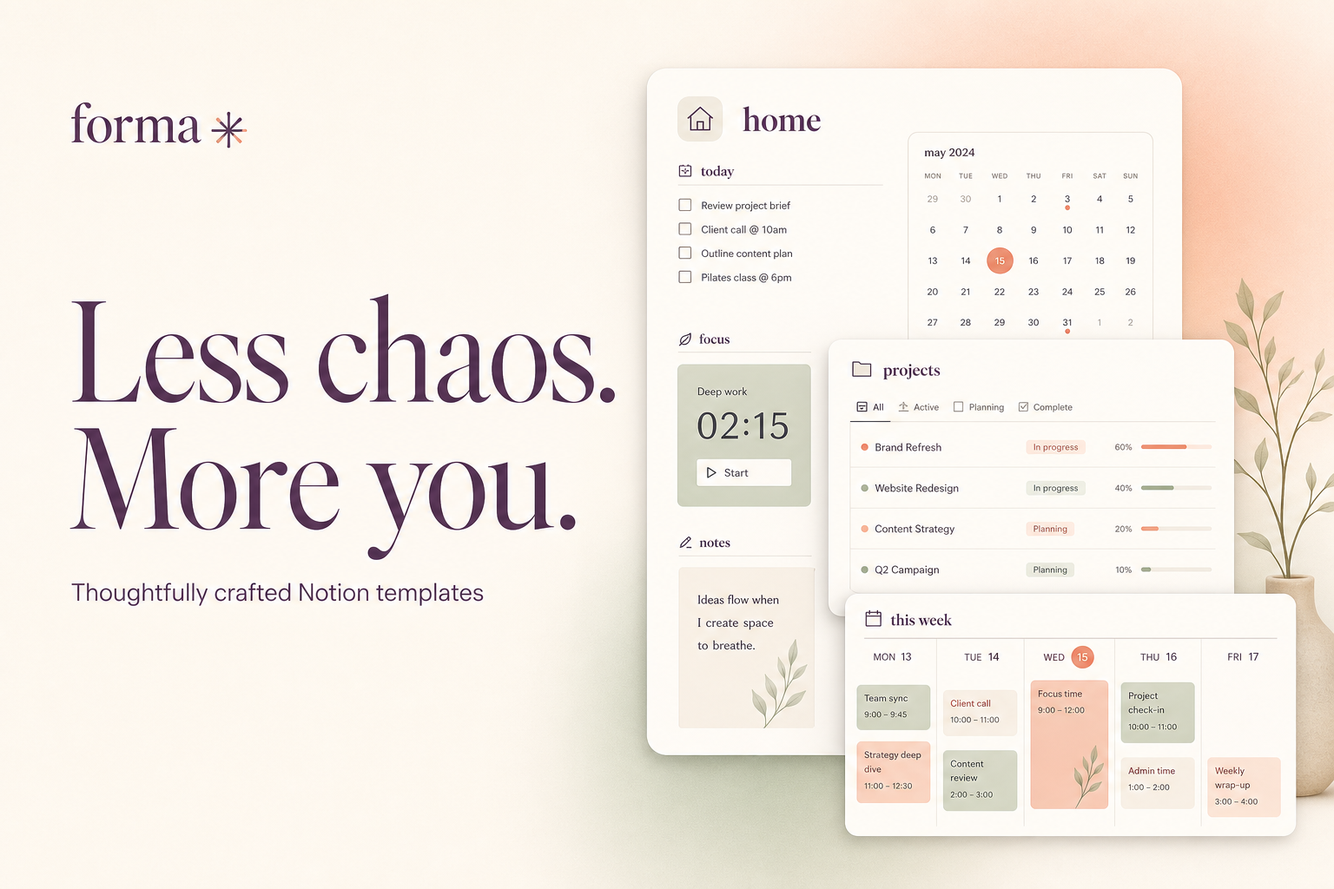
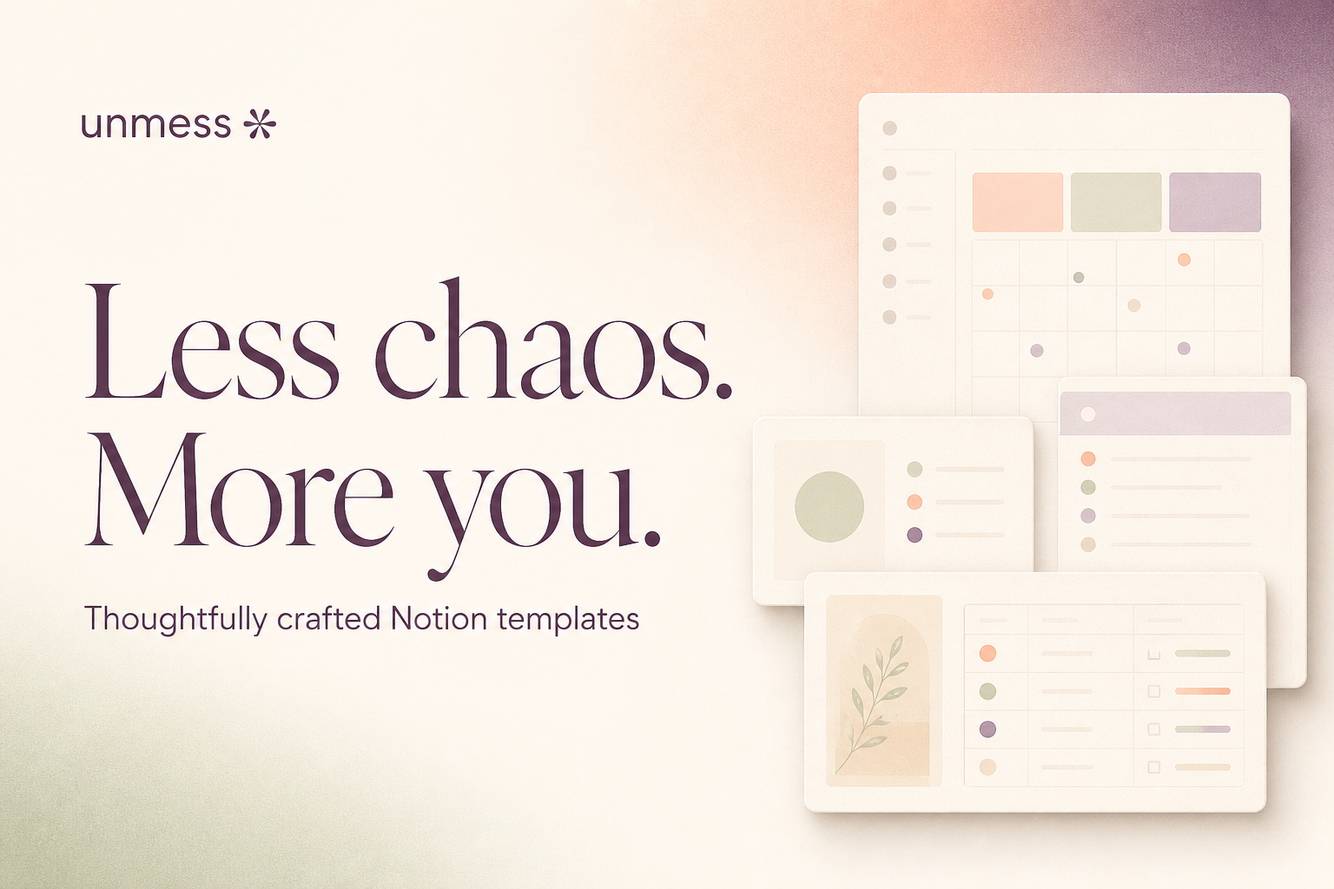
Rebrand Forma to Unmess

diff --git a/app/storefront.tsx b/app/storefront.tsx
@@ -6,9 +6,9 @@ import {ScrollTrigger} from 'gsap/ScrollTrigger';
 import Lenis from 'lenis';
 import {ArrowUpRight,ArrowRight,ShoppingBag,Check,Plus,Minus,Zap,Heart,Layers,Headphones,Menu,X,Trash2,Mail,Camera as Instagram} from 'lucide-react';
 import {Dialog,DialogContent,DialogTitle,DialogDescription} from '@/components/ui/dialog';
-import './forma.css';
+import './unmess.css';
 import './interactions.css';
-export function Workspace({small=false,title='Your life, beautifully together.'}:{small?:boolean,title?:string}){return <div className={`workspace ${small?'small':''}`}><div className="windowbar"><span>◧ &nbsp; forma / life planner</span><span>•••</span></div><div className="cover"><span>MAKE ROOM FOR WHAT MATTERS</span></div><div className="workspace-body"><span className="ws-icon">✳</span><h3>{title}</h3><p>A little intention goes a long way. Welcome to your space.</p><div className="ws-tabs">⌂ &nbsp; My dashboard <span>↗ &nbsp; Quick links</span></div><div className="ws-grid"><div><b>Today, with intention</b>{['A slow start & a good coffee','Move one idea forward','Make something just for you'].map(t=><div className="ws-task" key={t}><i/> {t}</div>)}<div className="ws-note">One thing at a time.<br/><em>You’re doing enough.</em></div></div><div><b>Your little corner</b><div className="ws-photo"/><div className="ws-links">↗ Weekly reset<br/>↗ Goals & dreams<br/>↗ The good stuff</div></div></div></div></div>}
+export function Workspace({small=false,title='Your life, beautifully together.'}:{small?:boolean,title?:string}){return <div className={`workspace ${small?'small':''}`}><div className="windowbar"><span>◧ &nbsp; unmess / life planner</span><span>•••</span></div><div className="cover"><span>MAKE ROOM FOR WHAT MATTERS</span></div><div className="workspace-body"><span className="ws-icon">✳</span><h3>{title}</h3><p>A little intention goes a long way. Welcome to your space.</p><div className="ws-tabs">⌂ &nbsp; My dashboard <span>↗ &nbsp; Quick links</span></div><div className="ws-grid"><div><b>Today, with intention</b>{['A slow start & a good coffee','Move one idea forward','Make something just for you'].map(t=><div className="ws-task" key={t}><i/> {t}</div>)}<div className="ws-note">One thing at a time.<br/><em>You’re doing enough.</em></div></div><div><b>Your little corner</b><div className="ws-photo"/><div className="ws-links">↗ Weekly reset<br/>↗ Goals & dreams<br/>↗ The good stuff</div></div></div></div></div>}
 const products=[
 {id:1,slug:'life-planner',title:'The Life Planner',category:'Life & wellness',price:500,color:'sage',badge:'Bestseller',description:'A calmer home for your goals, habits, and everything in between.',features:['Daily & weekly planning','Habit and mood trackers','Goals, journal & life dashboard']},
 {id:2,slug:'creator-studio',title:'The Creator Studio',category:'Work & business',price:500,color:'peach',badge:'Creator favorite',description:'Big ideas deserve a beautiful place to become real.',features:['Content calendar & idea bank','Brand and campaign planning','Client projects & deliverables']},
@@ -17,13 +17,13 @@ const products=[
 {id:5,slug:'gentle-reset',title:'The Gentle Reset',category:'Life & wellness',price:500,color:'peach',badge:'Start here',description:'Small rituals that make your everyday feel a little more like you.',features:['Weekly reset ritual','Gratitude journal','Mindful routine builder']},
 {id:6,slug:'freelance-hq',title:'The Freelance HQ',category:'Work & business',price:500,color:'sage',badge:'All in one',description:'A home for the business you’re building on your own terms.',features:['Client CRM & project hub','Invoice and income tracker','Proposals & meeting notes']}];
 type Product=typeof products[number];
-const bundle:Product={id:99,slug:'everything-bundle',title:'The Everything Bundle',category:'Bundle',price:500,color:'lavender',badge:'Bundle Deal',description:'All six templates. One beautifully connected life.',features:['All 6 Forma templates','Lifetime template updates','30 days of setup support']};
+const bundle:Product={id:99,slug:'everything-bundle',title:'The Everything Bundle',category:'Bundle',price:500,color:'lavender',badge:'Bundle Deal',description:'All six templates. One beautifully connected life.',features:['All 6 Unmess templates','Lifetime template updates','30 days of setup support']};
 const categories=['All templates','Life & wellness','Work & business','Productivity','Student life'];
 const questions=[
 ['Do I need to know how to use Notion?','Not at all. Every template is designed to feel intuitive, with a quick-start guide and example content. If you can tick a box and type a note, you’re ready.'],
 ['Does this work with the free Notion plan?','Yes. All six templates are designed to work with Notion’s free personal plan. No extra subscription is required to use the included dashboards and databases.'],
 ['How do I receive my templates?','Once connected to a live checkout, purchases will provide a Notion duplication link. Open it, choose Duplicate, and make the template yours. This demo does not process payments or deliver paid products.'],
-['Can I make it my own?','Absolutely. Change colors, rearrange pages, add your own sections, or remove what you don’t need. Think of Forma as your starting point, not a rulebook.'],
+['Can I make it my own?','Absolutely. Change colors, rearrange pages, add your own sections, or remove what you don’t need. Think of Unmess as your starting point, not a rulebook.'],
 ['What if I need a little help?','The proposed offer includes a getting-started guide and 30 days of setup support. Before launching, add your real support address and publish your refund and support policies.']];
 const quotes=[
 ['“Finally, a planner that feels like me. Everything has a home, and my brain can take a breath.”','Jamie R.','Designer & beautifully busy human','JR'],
@@ -44,7 +44,7 @@ const analyticsBase=(process.env.NEXT_PUBLIC_ANALYTICS_API_URL||'').replace(/\/$
 const formatPrice=(amount:number)=>new Intl.NumberFormat(undefined,{style:'currency',currency:pricing.currency,maximumFractionDigits:pricing.currency==='JPY'||pricing.currency==='KRW'?0:2}).format(amount*pricing.rate);
 const trackClick=(product:Product)=>{if(!analyticsBase)return;void fetch(analyticsBase+'/api/clicks/'+product.slug,{method:'POST',keepalive:true}).catch(()=>{});};
 const cursor=useRef<HTMLDivElement>(null), gallery=useRef<HTMLDivElement>(null), gallerySection=useRef<HTMLElement>(null);
-useEffect(()=>{void fetch('/api/pricing').then(r=>r.ok?r.json() as Promise<{currency:string,rate:number,approximate:boolean}>:Promise.reject()).then(data=>{if(data.currency&&Number(data.rate)>0)setPricing(data)}).catch(()=>{});const t=setTimeout(()=>setLoading(false),900);try{const ids=JSON.parse(localStorage.getItem('forma-cart')||'[]');if(Array.isArray(ids))setCart([...products,bundle].filter(p=>ids.includes(p.id)))}catch{}return()=>clearTimeout(t)},[]);
+useEffect(()=>{void fetch('/api/pricing').then(r=>r.ok?r.json() as Promise<{currency:string,rate:number,approximate:boolean}>:Promise.reject()).then(data=>{if(data.currency&&Number(data.rate)>0)setPricing(data)}).catch(()=>{});const t=setTimeout(()=>setLoading(false),900);try{const ids=JSON.parse(localStorage.getItem('unmess-cart')||'[]');if(Array.isArray(ids))setCart([...products,bundle].filter(p=>ids.includes(p.id)))}catch{}return()=>clearTimeout(t)},[]);
 useEffect(()=>{if(!notice)return;const t=setTimeout(()=>setNotice(''),3500);return()=>clearTimeout(t)},[notice]);
 useEffect(()=>{gsap.registerPlugin(ScrollTrigger);const mm=gsap.matchMedia();let lenis:Lenis|undefined;let raf=0;
 if(!matchMedia('(prefers-reduced-motion:reduce)').matches){lenis=new Lenis({duration:1.1,anchors:true});const tick=(time:number)=>{lenis?.raf(time);raf=requestAnimationFrame(tick)};raf=requestAnimationFrame(tick);lenis.on('scroll',ScrollTrigger.update);}
@@ -54,12 +54,12 @@ mm.add('(min-width:1100px) and (prefers-reduced-motion:no-preference)',()=>{cons
 const pointer=(e:MouseEvent)=>{const el=cursor.current;if(!el)return;el.style.left=e.clientX+'px';el.style.top=e.clientY+'px';const target=(e.target as HTMLElement).closest<HTMLElement>('[data-cursor],button,a');el.textContent=target?.dataset.cursor||(target?'↗':'');el.classList.toggle('active',!!target);el.style.opacity='1';};
 window.addEventListener('mousemove',pointer);return()=>{window.removeEventListener('mousemove',pointer);window.removeEventListener('scroll',handleScroll);cancelAnimationFrame(raf);lenis?.destroy();mm.revert()};
 },[]);
-const add=(p:Product)=>{const next=cart.some(x=>x.id===p.id)?cart:[...cart,p];setCart(next);try{localStorage.setItem('forma-cart',JSON.stringify(next.map(x=>x.id)))}catch{}setSelected(null);setCartOpen(true);setNotice('A little possibility, added to your bag.')};
-const remove=(id:number)=>{const next=cart.filter(p=>p.id!==id);setCart(next);try{localStorage.setItem('forma-cart',JSON.stringify(next.map(x=>x.id)))}catch{}};
+const add=(p:Product)=>{const next=cart.some(x=>x.id===p.id)?cart:[...cart,p];setCart(next);try{localStorage.setItem('unmess-cart',JSON.stringify(next.map(x=>x.id)))}catch{}setSelected(null);setCartOpen(true);setNotice('A little possibility, added to your bag.')};
+const remove=(id:number)=>{const next=cart.filter(p=>p.id!==id);setCart(next);try{localStorage.setItem('unmess-cart',JSON.stringify(next.map(x=>x.id)))}catch{}};
 return <main>
-<AnimatePresence>{loading&&<motion.div className="preloader" exit={{opacity:0}} transition={{duration:.25}} aria-hidden="true"><motion.span className="brand" initial={{y:12,opacity:0}} animate={{y:0,opacity:1}}>forma<motion.span animate={{rotate:180}} transition={{duration:1}}>✳</motion.span></motion.span><span>A little space for you.</span></motion.div>}</AnimatePresence>
+<AnimatePresence>{loading&&<motion.div className="preloader" exit={{opacity:0}} transition={{duration:.25}} aria-hidden="true"><motion.span className="brand" initial={{y:12,opacity:0}} animate={{y:0,opacity:1}}>unmess<motion.span animate={{rotate:180}} transition={{duration:1}}>✳</motion.span></motion.span><span>A little space for you.</span></motion.div>}</AnimatePresence>
 <div ref={cursor} className="custom-cursor" aria-hidden="true"/>
-<header className={scrolled?'nav-shell scrolled':'nav-shell'}><nav><a className="brand" href="#" aria-label="Forma home">forma<span>✳</span></a><div className="navlinks"><a href="#templates">The templates</a><a href="#why">Our philosophy</a><a href="#reviews">Kind words</a></div><div className="nav-actions"><button className="bag" onClick={()=>setCartOpen(true)} aria-label={`Open shopping bag, ${cart.length} items`}><ShoppingBag size={18}/>{cart.length>0&&<span>{cart.length}</span>}</button><Magnetic href="#templates" className="navcta">Find your flow <ArrowUpRight size={16}/></Magnetic><button className="menu-toggle" aria-label="Toggle menu" aria-expanded={menu} onClick={()=>setMenu(!menu)}>{menu?<X/>:<Menu/>}</button></div></nav>{menu&&<div className="mobile-menu">{[['The templates','#templates'],['Our philosophy','#why'],['Kind words','#reviews'],['The bundle','#bundle']].map(([label,href])=><a key={href} href={href} onClick={()=>setMenu(false)}>{label}<ArrowUpRight size={16}/></a>)}</div>}</header>
+<header className={scrolled?'nav-shell scrolled':'nav-shell'}><nav><a className="brand" href="#" aria-label="Unmess home">unmess<span>✳</span></a><div className="navlinks"><a href="#templates">The templates</a><a href="#why">Our philosophy</a><a href="#reviews">Kind words</a></div><div className="nav-actions"><button className="bag" onClick={()=>setCartOpen(true)} aria-label={`Open shopping bag, ${cart.length} items`}><ShoppingBag size={18}/>{cart.length>0&&<span>{cart.length}</span>}</button><Magnetic href="#templates" className="navcta">Find your flow <ArrowUpRight size={16}/></Magnetic><button className="menu-toggle" aria-label="Toggle menu" aria-expanded={menu} onClick={()=>setMenu(!menu)}>{menu?<X/>:<Menu/>}</button></div></nav>{menu&&<div className="mobile-menu">{[['The templates','#templates'],['Our philosophy','#why'],['Kind words','#reviews'],['The bundle','#bundle']].map(([label,href])=><a key={href} href={href} onClick={()=>setMenu(false)}>{label}<ArrowUpRight size={16}/></a>)}</div>}</header>
 <section className="hero"><div className="hero-copy"><div className="eyebrow"><span/> A LITTLE STRUCTURE. A LOT OF POSSIBILITY.</div><h1 aria-label="Less chaos. More you.">{['Less','chaos.'].map((word,i)=><span className="word-mask" key={word}><motion.span initial={{y:reduced?0:120}} animate={{y:0}} transition={{delay:.8+i*.1,duration:.75,ease:[.22,1,.36,1]}}>{word}&nbsp;</motion.span></span>)}<br/>{['More','you.'].map((word,i)=><span className="word-mask" key={word}><motion.span initial={{y:reduced?0:120}} animate={{y:0}} transition={{delay:1+i*.1,duration:.75,ease:[.22,1,.36,1]}}>{i?<em>{word}</em>:word}&nbsp;</motion.span></span>)}<span className="headline-star">✳</span></h1><p>Thoughtfully crafted Notion templates to clear your mind,<br className="desktop"/> find your rhythm, and make room for what matters.</p><Magnetic href="#templates">Explore the templates <ArrowUpRight size={18}/></Magnetic><div className="hero-proof"><div className="avatars"><span>J</span><span>A</span><span>M</span><span>S</span></div><div><span className="stars">★★★★★</span><small>For beautifully busy minds, like yours.</small></div></div></div>
 <div className="hero-art" onMouseMove={e=>{if(!reduced&&matchMedia('(pointer:fine)').matches){const r=e.currentTarget.getBoundingClientRect();gsap.to('.hero-workspace',{x:(e.clientX-r.left-r.width/2)*.025,y:(e.clientY-r.top-r.height/2)*.025,duration:.8});}}} onMouseLeave={()=>gsap.to('.hero-workspace',{x:0,y:0,duration:.8})}><div className="mesh"/><div className="hero-workspace"><Workspace/></div><div className="floating-note"><span>✦ &nbsp; A little daily progress</span><b>You’re in your<br/><em>getting-it-together era.</em></b><div>MON &nbsp; TUE &nbsp; WED &nbsp; THU &nbsp; FRI</div><div className="progress-dots">✓ &nbsp; ✓ &nbsp; ✓ &nbsp; ✓ &nbsp; ○</div></div><span className="art-caption">your fresh start, in one little click ↗</span><span className="notion-tag">N &nbsp; Made for Notion. Made for you.</span></div><div className="hero-bottom"><span>DESIGNED WITH INTENTION. BUILT FOR REAL LIFE.</span><a href="#featured">A little scroll, a fresh start ↓</a></div></section>
 <section className="social-proof reveal"><div className="proof-intro">Small systems.<br/><em>Big little changes.</em><small>Illustrative community statistics</small></div><Counter value={5000} label="creative minds"/><Counter value={12000} label="fresh starts"/><div className="works-with"><span>AT HOME IN YOUR TOOLKIT</span><div><b>Ⓝ Notion</b><b>◈ Figma</b><b>☷ Slack</b></div><small>Independent templates. No affiliation.</small></div></section>
@@ -70,9 +70,9 @@ return <main>
 <section id="bundle" className="section"><div className="bundle reveal"><div><div className="eyebrow">YOUR WHOLE LIFE. A LITTLE LIGHTER.</div><h2>Why pick one<br/>kind of <em>possibility?</em></h2><p>Meet the Everything Bundle. Six beautiful systems<br/>for your work, your life, and all the in-between.</p><div className="bundle-includes">{bundle.features.map(f=><span key={f}><Check size={15}/>{f}</span>)}</div></div><div className="bundle-price"><span className="bundle-badge">✦ THE MOST POPULAR WAY TO START</span><div className="price">{formatPrice(bundle.price)} <span>{pricing.approximate?'Approximate local display price':'Your local price'} · once, yours forever</span></div><p>A little investment in a lot more headspace.</p><Magnetic onClick={()=>add(bundle)}>Make room for everything <ArrowUpRight size={18}/></Magnetic><small>All six templates · One happy workspace</small></div></div></section>
 <section id="faq" className="section faq-section"><div className="reveal"><div className="eyebrow">GOOD QUESTIONS</div><h2>A little clarity<br/><em>before you begin.</em></h2><p>Wondering about something?<br/>Let’s make it simple.</p></div><div className="faq-list">{questions.map(([q,a],i)=><div className="faq-item" key={q}><button aria-expanded={faq===i} aria-controls={'faq-'+i} onClick={()=>setFaq(faq===i?null:i)}>{q}{faq===i?<Minus size={17}/>:<Plus size={17}/>}</button><AnimatePresence initial={false}>{faq===i&&<motion.div id={'faq-'+i} initial={{height:0,opacity:0}} animate={{height:'auto',opacity:1}} exit={{height:0,opacity:0}} transition={{duration:reduced?0:.3}}><p>{a}</p></motion.div>}</AnimatePresence></div>)}</div></section>
 <section className="section newsletter reveal"><span className="newsletter-star">✳</span><div className="eyebrow">A SMALL NOTE. A FRESH PERSPECTIVE.</div><h2>Good things, <em>in your inbox.</em></h2><p>Thoughtful tips, new templates, and a little nudge toward a calmer day.</p><form onSubmit={e=>{e.preventDefault();if(email.trim()){setSubscribed(true);}}}><label className="sr-only" htmlFor="newsletter-email">Email address</label><input id="newsletter-email" type="email" required placeholder="Your email, please" value={email} onChange={e=>{setEmail(e.target.value);setSubscribed(false)}}/><button type="submit" aria-label="Sign up for the newsletter"><ArrowUpRight size={22}/></button></form><small role="status">{subscribed?'Preview complete — your address has not been sent or subscribed. Connect your email provider to go live.':'Just the good stuff. No noise. Demo signup — no data is sent.'}</small></section>
-<footer><div className="footer-top"><div><a className="brand" href="#">forma<span>✳</span></a><p>A little structure.<br/>A lot more you.</p></div><div><b>FIND YOUR SPACE</b>{categories.slice(1).map(c=><a key={c} href="#templates" onClick={()=>setCategory(c)}>{c}</a>)}</div><div><b>GOOD TO KNOW</b><a href="#why">Our philosophy</a><a href="#faq">Questions & answers</a><a href="#bundle">The Everything Bundle</a><button onClick={()=>setInfo('Support')}>Get in touch <ArrowUpRight size={12}/></button></div><div><b>LET’S STAY CLOSE</b><button onClick={()=>setInfo('Instagram')}>Instagram <Instagram size={13}/></button><button onClick={()=>setInfo('Pinterest')}>Pinterest <ArrowUpRight size={13}/></button><a href="#newsletter-email">A little newsletter <Mail size={13}/></a></div></div><div className="footer-bottom"><span>© {new Date().getFullYear()} Forma. Made with a little intention.</span><div><button onClick={()=>setInfo('Privacy')}>Privacy</button><button onClick={()=>setInfo('Terms')}>Terms</button><span className="payment-label">VISA &nbsp; ◉◉ &nbsp; PayPal</span></div></div><p className="demo-note">Concept storefront · Sample products, prices, statistics, and reviews · Razorpay payment page connected · Itemized verification pending</p></footer>
+<footer><div className="footer-top"><div><a className="brand" href="#">unmess<span>✳</span></a><p>A little structure.<br/>A lot more you.</p></div><div><b>FIND YOUR SPACE</b>{categories.slice(1).map(c=><a key={c} href="#templates" onClick={()=>setCategory(c)}>{c}</a>)}</div><div><b>GOOD TO KNOW</b><a href="#why">Our philosophy</a><a href="#faq">Questions & answers</a><a href="#bundle">The Everything Bundle</a><button onClick={()=>setInfo('Support')}>Get in touch <ArrowUpRight size={12}/></button></div><div><b>LET’S STAY CLOSE</b><button onClick={()=>setInfo('Instagram')}>Instagram <Instagram size={13}/></button><button onClick={()=>setInfo('Pinterest')}>Pinterest <ArrowUpRight size={13}/></button><a href="#newsletter-email">A little newsletter <Mail size={13}/></a></div></div><div className="footer-bottom"><span>© {new Date().getFullYear()} Unmess. Made with a little intention.</span><div><button onClick={()=>setInfo('Privacy')}>Privacy</button><button onClick={()=>setInfo('Terms')}>Terms</button><span className="payment-label">VISA &nbsp; ◉◉ &nbsp; PayPal</span></div></div><p className="demo-note">Concept storefront · Sample products, prices, statistics, and reviews · Razorpay payment page connected · Itemized verification pending</p></footer>
 <Dialog open={!!selected} onOpenChange={open=>{if(!open)setSelected(null)}}><DialogContent className="product-dialog" data-lenis-prevent>{selected&&<><div className={'dialog-preview '+selected.color}><Workspace title={selected.title}/></div><span className="product-category">{selected.category} / NOTION TEMPLATE</span><DialogTitle className="dialog-title">{selected.title}</DialogTitle><DialogDescription>{selected.description}</DialogDescription><ul className="dialog-features">{selected.features.map(f=><li key={f}><Check size={16}/>{f}</li>)}</ul><Magnetic onClick={()=>add(selected)}>Add to bag — {formatPrice(selected.price)} <ShoppingBag size={17}/></Magnetic><small>Demo product preview · Notion duplication link supplied at launch</small></>}</DialogContent></Dialog>
 <Dialog open={cartOpen} onOpenChange={setCartOpen}><DialogContent className="cart-dialog" data-lenis-prevent><DialogTitle className="dialog-title">Your little fresh start.</DialogTitle><DialogDescription>{cart.length?'A few good things, ready when you are.':'Your bag is waiting for a little possibility.'}</DialogDescription>{cart.length?<><div className="cart-items">{cart.map(p=><div className="cart-item" key={p.id}><span className={'cart-symbol '+p.color}>✳</span><div><b>{p.title}</b><small>Notion template · Digital product</small></div><span>{formatPrice(p.price)}</span><button aria-label={'Remove '+p.title} onClick={()=>remove(p.id)}><Trash2 size={16}/></button></div>)}</div><div className="cart-total"><span>Total · {pricing.currency}</span><b>{formatPrice(cart.reduce((sum,p)=>sum+p.price,0))}</b></div><button className="button" onClick={()=>{cart.forEach(trackClick);window.open('https://razorpay.me/@keshavchhabra','_blank','noopener,noreferrer');setNotice('Razorpay opened securely. Automated payment verification and delivery will be enabled after the Razorpay keys and webhook are connected.')}}>Pay securely with Razorpay <ArrowRight size={17}/></button><p className="demo-note">Displayed local prices are estimates. Until itemized Razorpay checkout is connected, confirm the final ₹ amount on Razorpay before paying.</p></>:<button className="button" onClick={()=>{setCartOpen(false);document.getElementById('templates')?.scrollIntoView({behavior:reduced?'instant':'smooth'})}}>Explore the templates <ArrowUpRight size={16}/></button>}</DialogContent></Dialog>
-<Dialog open={!!info} onOpenChange={open=>{if(!open)setInfo(null)}}><DialogContent><DialogTitle className="dialog-title">{info}</DialogTitle><DialogDescription>{info==='Privacy'?'This demo stores your shopping bag only in your browser. Newsletter input is not transmitted. External fonts and preview imagery are loaded from Google Fonts and Unsplash. Add your full privacy policy before collecting customer data.':info==='Terms'?'This is a concept storefront. Products and prices are illustrative, no payments are accepted, and no purchase contract is created. Publish your license, refund policy, and business terms before launch.':info==='Support'?'A real support address has not been added yet. Connect your business email before launching this storefront.':'The Forma '+info+' account has not been linked yet. Add your real profile URL before launch.'}</DialogDescription></DialogContent></Dialog>
+<Dialog open={!!info} onOpenChange={open=>{if(!open)setInfo(null)}}><DialogContent><DialogTitle className="dialog-title">{info}</DialogTitle><DialogDescription>{info==='Privacy'?'This demo stores your shopping bag only in your browser. Newsletter input is not transmitted. External fonts and preview imagery are loaded from Google Fonts and Unsplash. Add your full privacy policy before collecting customer data.':info==='Terms'?'This is a concept storefront. Products and prices are illustrative, no payments are accepted, and no purchase contract is created. Publish your license, refund policy, and business terms before launch.':info==='Support'?'A real support address has not been added yet. Connect your business email before launching this storefront.':'The Unmess '+info+' account has not been linked yet. Add your real profile URL before launch.'}</DialogDescription></DialogContent></Dialog>
 <AnimatePresence>{notice&&<motion.div role="status" className="toast" initial={{y:25,opacity:0}} animate={{y:0,opacity:1}} exit={{opacity:0}}>{notice}<button onClick={()=>setNotice('')} aria-label="Dismiss notification"><X size={16}/></button></motion.div>}</AnimatePresence>
 </main>}

diff --git a/backend/src/email.js b/backend/src/email.js
@@ -30,14 +30,14 @@ export async function sendTemplateDelivery({ email, productName, downloadUrl, or
     html: `<!doctype html><html><body style="margin:0;background:#faf6f0;color:#2b2b2b;font-family:Arial,sans-serif">
       <table role="presentation" width="100%" cellspacing="0" cellpadding="0" style="background:#faf6f0;padding:32px 16px"><tr><td align="center">
       <table role="presentation" width="100%" cellspacing="0" cellpadding="0" style="max-width:620px;background:#fffdf9;border:1px solid #e8dfd5;border-radius:22px;overflow:hidden">
-        <tr><td style="padding:34px 42px 18px;font-family:Georgia,serif;font-size:36px;color:#6b4e71">forma ✳</td></tr>
+        <tr><td style="padding:34px 42px 18px;font-family:Georgia,serif;font-size:36px;color:#6b4e71">unmess ✳</td></tr>
         <tr><td style="padding:10px 42px 38px"><div style="font-size:11px;letter-spacing:2px;color:#8d7f76">A LITTLE MORE POSSIBILITY</div>
           <h1 style="font-family:Georgia,serif;font-size:38px;line-height:1.12;font-weight:400;margin:18px 0;color:#2b2b2b">Your fresh start<br>is ready.</h1>
           <p style="font-size:15px;line-height:1.75;color:#726962;margin:0 0 26px">Thank you for choosing <strong>${safeName}</strong>. Duplicate it into your Notion workspace and make it completely yours.</p>
           <a href="${safeUrl}" style="display:inline-block;background:#6b4e71;color:#fff;text-decoration:none;padding:16px 24px;border-radius:10px;font-size:14px">Open your template →</a>
           <p style="font-size:12px;line-height:1.7;color:#9a8e85;margin-top:28px">Order ${safeOrder}<br>If the button does not work, copy this link:<br><a href="${safeUrl}" style="color:#6b4e71">${safeUrl}</a></p>
         </td></tr>
-        <tr><td style="background:#eee9e1;padding:20px 42px;font-size:11px;color:#81766e">Made with a little intention. © Forma</td></tr>
+        <tr><td style="background:#eee9e1;padding:20px 42px;font-size:11px;color:#81766e">Made with a little intention. © Unmess</td></tr>
       </table></td></tr></table></body></html>`,
   });
 }

diff --git a/app/layout.tsx b/app/layout.tsx
@@ -4,10 +4,10 @@ import './globals.css';
 
 export const metadata: Metadata = {
   metadataBase: new URL('https://forma-intentional-templates.chhabra-05-keshav.chatgpt.site'),
-  title: 'Forma — Less chaos. More you.',
+  title: 'Unmess — Less chaos. More you.',
   description: 'Thoughtfully crafted Notion templates to find your rhythm and make room for what matters.',
-  openGraph: { title: 'Forma — Less chaos. More you.', description: 'Thoughtfully crafted Notion templates to find your rhythm and make room for what matters.', images: ['/og.png'] },
-  twitter: { card: 'summary_large_image', title: 'Forma — Less chaos. More you.', description: 'Thoughtfully crafted Notion templates to find your rhythm and make room for what matters.', images: ['/og.png'] },
+  openGraph: { title: 'Unmess — Less chaos. More you.', description: 'Thoughtfully crafted Notion templates to find your rhythm and make room for what matters.', images: ['/og.png'] },
+  twitter: { card: 'summary_large_image', title: 'Unmess — Less chaos. More you.', description: 'Thoughtfully crafted Notion templates to find your rhythm and make room for what matters.', images: ['/og.png'] },
 };
 
 export default function RootLayout({

diff --git a/backend/src/config.js b/backend/src/config.js
@@ -1,11 +1,11 @@
 export const templates = {
-  'life-planner': 'forma_life_planner',
-  'creator-studio': 'forma_creator_studio',
-  'second-brain': 'forma_second_brain',
-  'study-space': 'forma_study_space',
-  'gentle-reset': 'forma_gentle_reset',
-  'freelance-hq': 'forma_freelance_hq',
-  'everything-bundle': 'forma_everything_bundle',
+  'life-planner': 'unmess_life_planner',
+  'creator-studio': 'unmess_creator_studio',
+  'second-brain': 'unmess_second_brain',
+  'study-space': 'unmess_study_space',
+  'gentle-reset': 'unmess_gentle_reset',
+  'freelance-hq': 'unmess_freelance_hq',
+  'everything-bundle': 'unmess_everything_bundle',
 };
 
 export function required(name) {

diff --git a/backend/src/server.js b/backend/src/server.js
@@ -63,4 +63,4 @@ app.use((error, _req, res, _next) => {
   res.status(500).json({ error: 'Internal server error' });
 });
 
-app.listen(Number(process.env.PORT || 8080), () => console.log('Forma backend is ready'));
+app.listen(Number(process.env.PORT || 8080), () => console.log('Unmess backend is ready'));

diff --git a/backend/README.md b/backend/README.md
@@ -1,4 +1,4 @@
-# Forma backend
+# Unmess backend
 
 Node service for MongoDB click counters and post-payment email delivery.
 
